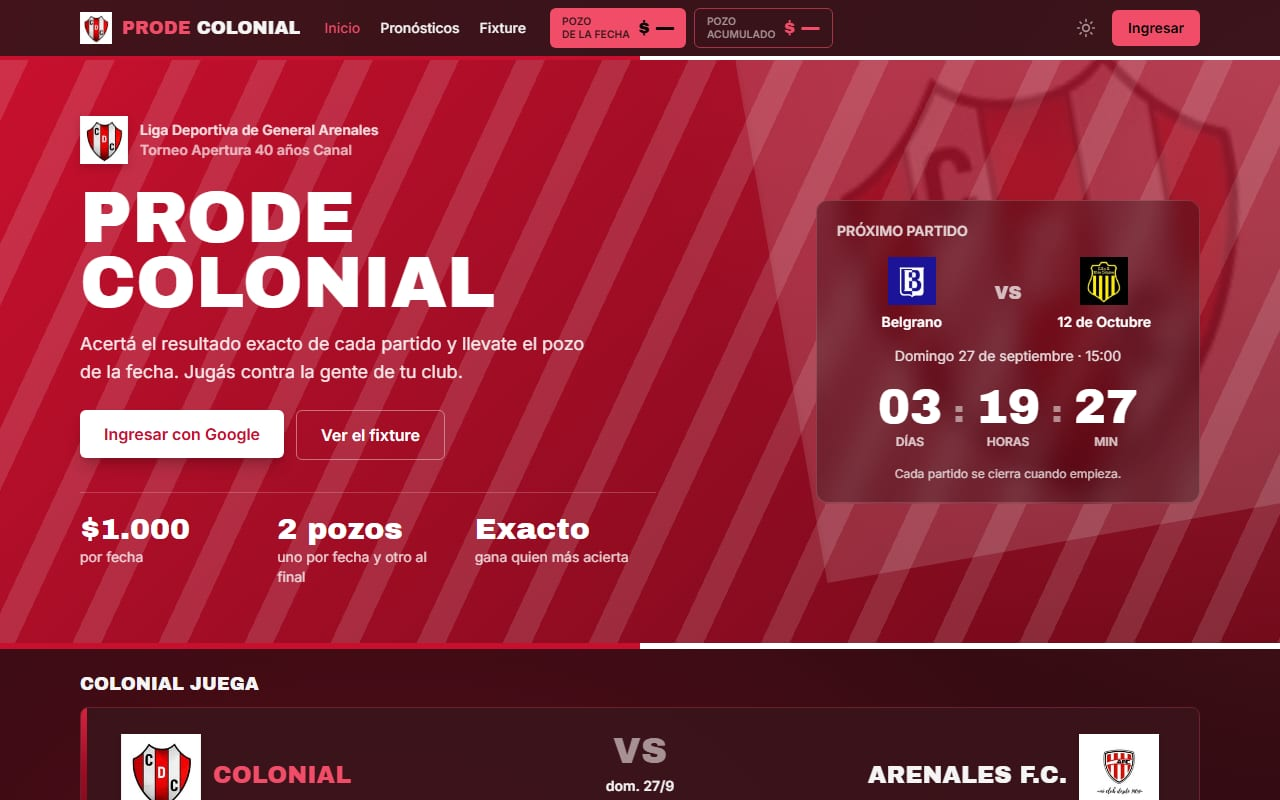
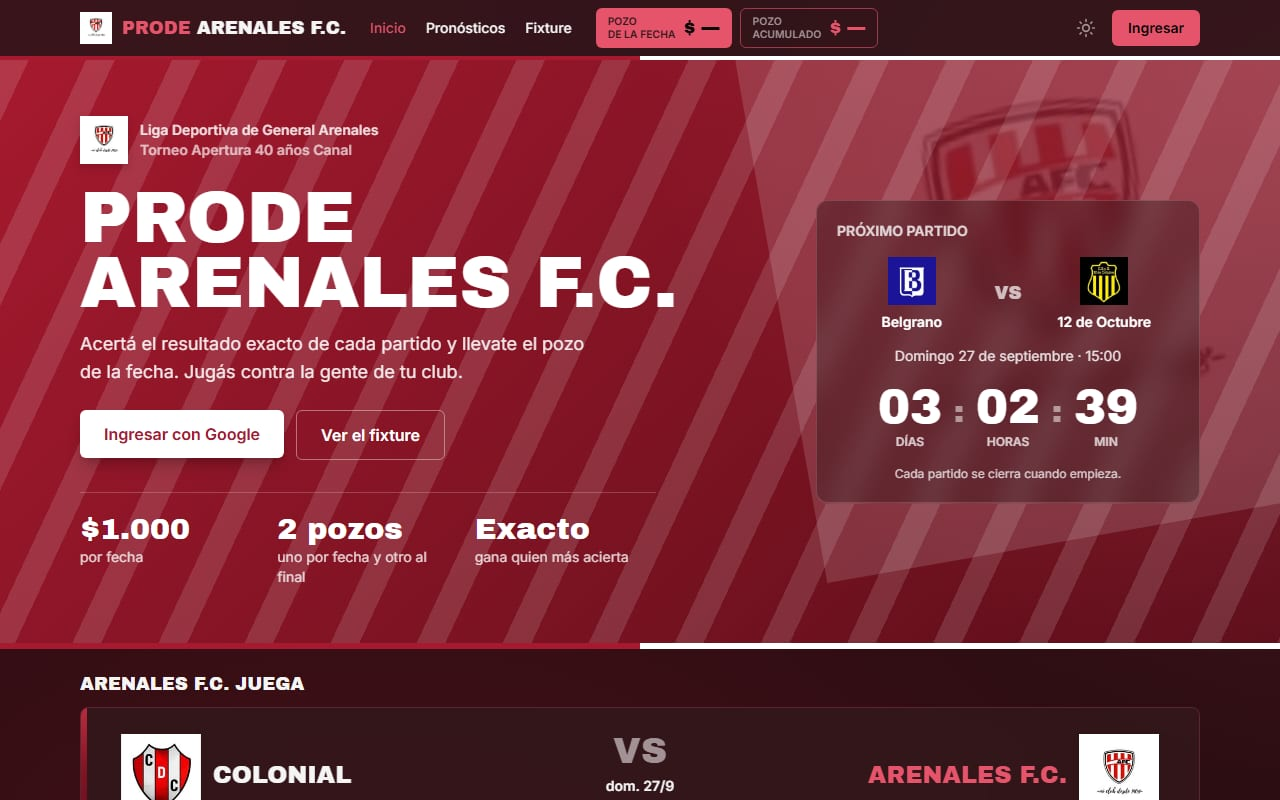
Vitrina: Prode apunta al de Arenales, con su captura

diff --git a/lib/contenido.ts b/lib/contenido.ts
@@ -272,8 +272,8 @@ export const PROYECTOS: Proyecto[] = [
       "Panel del organizador: fechas, inscripciones y pagos",
     ],
     tecnologias: ["Laravel", "PHP", "MySQL", "Google"],
-    url: "https://prode.jsoluciones.com.ar",
-    urlTexto: "Ver el prode en vivo",
+    url: "https://arenales.prode.jsoluciones.com.ar",
+    urlTexto: "Ver el Prode de Arenales",
     estado: "En desarrollo · fase 2 de 7",
   },
   {
